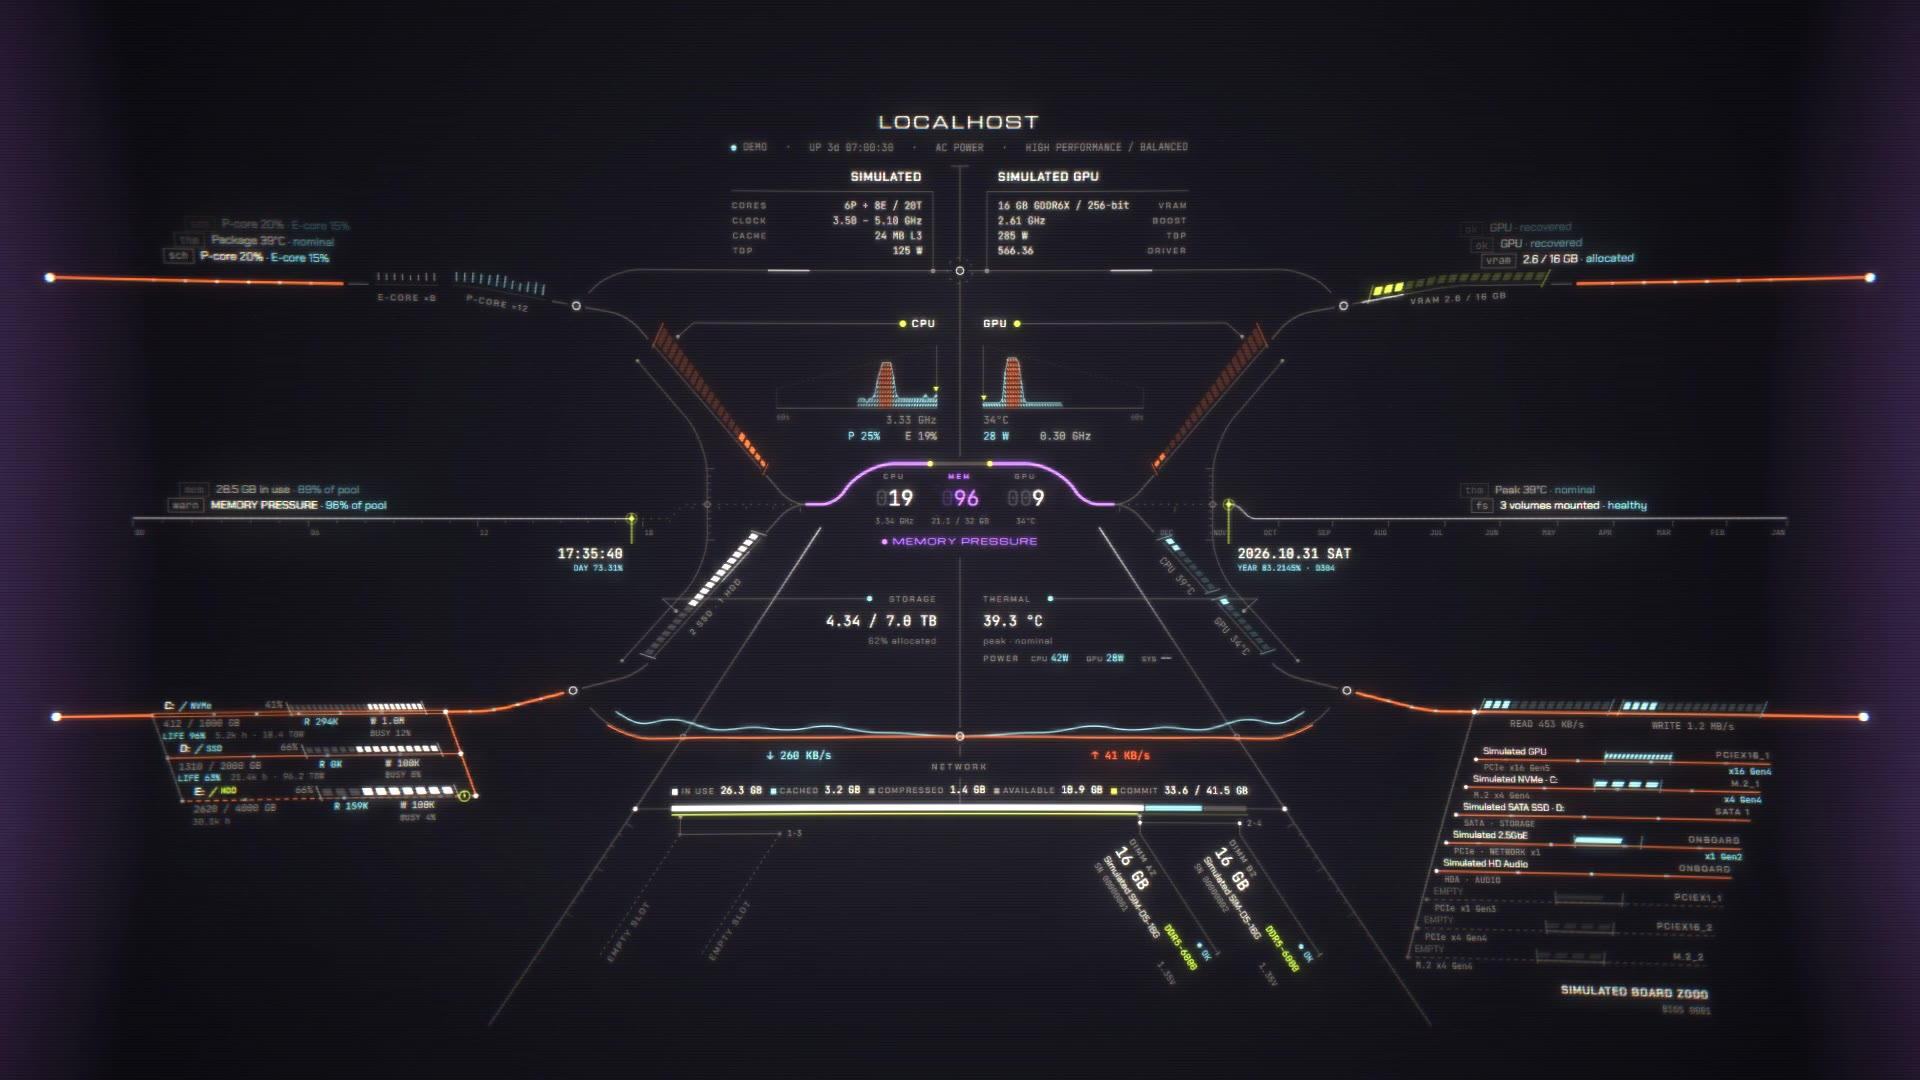
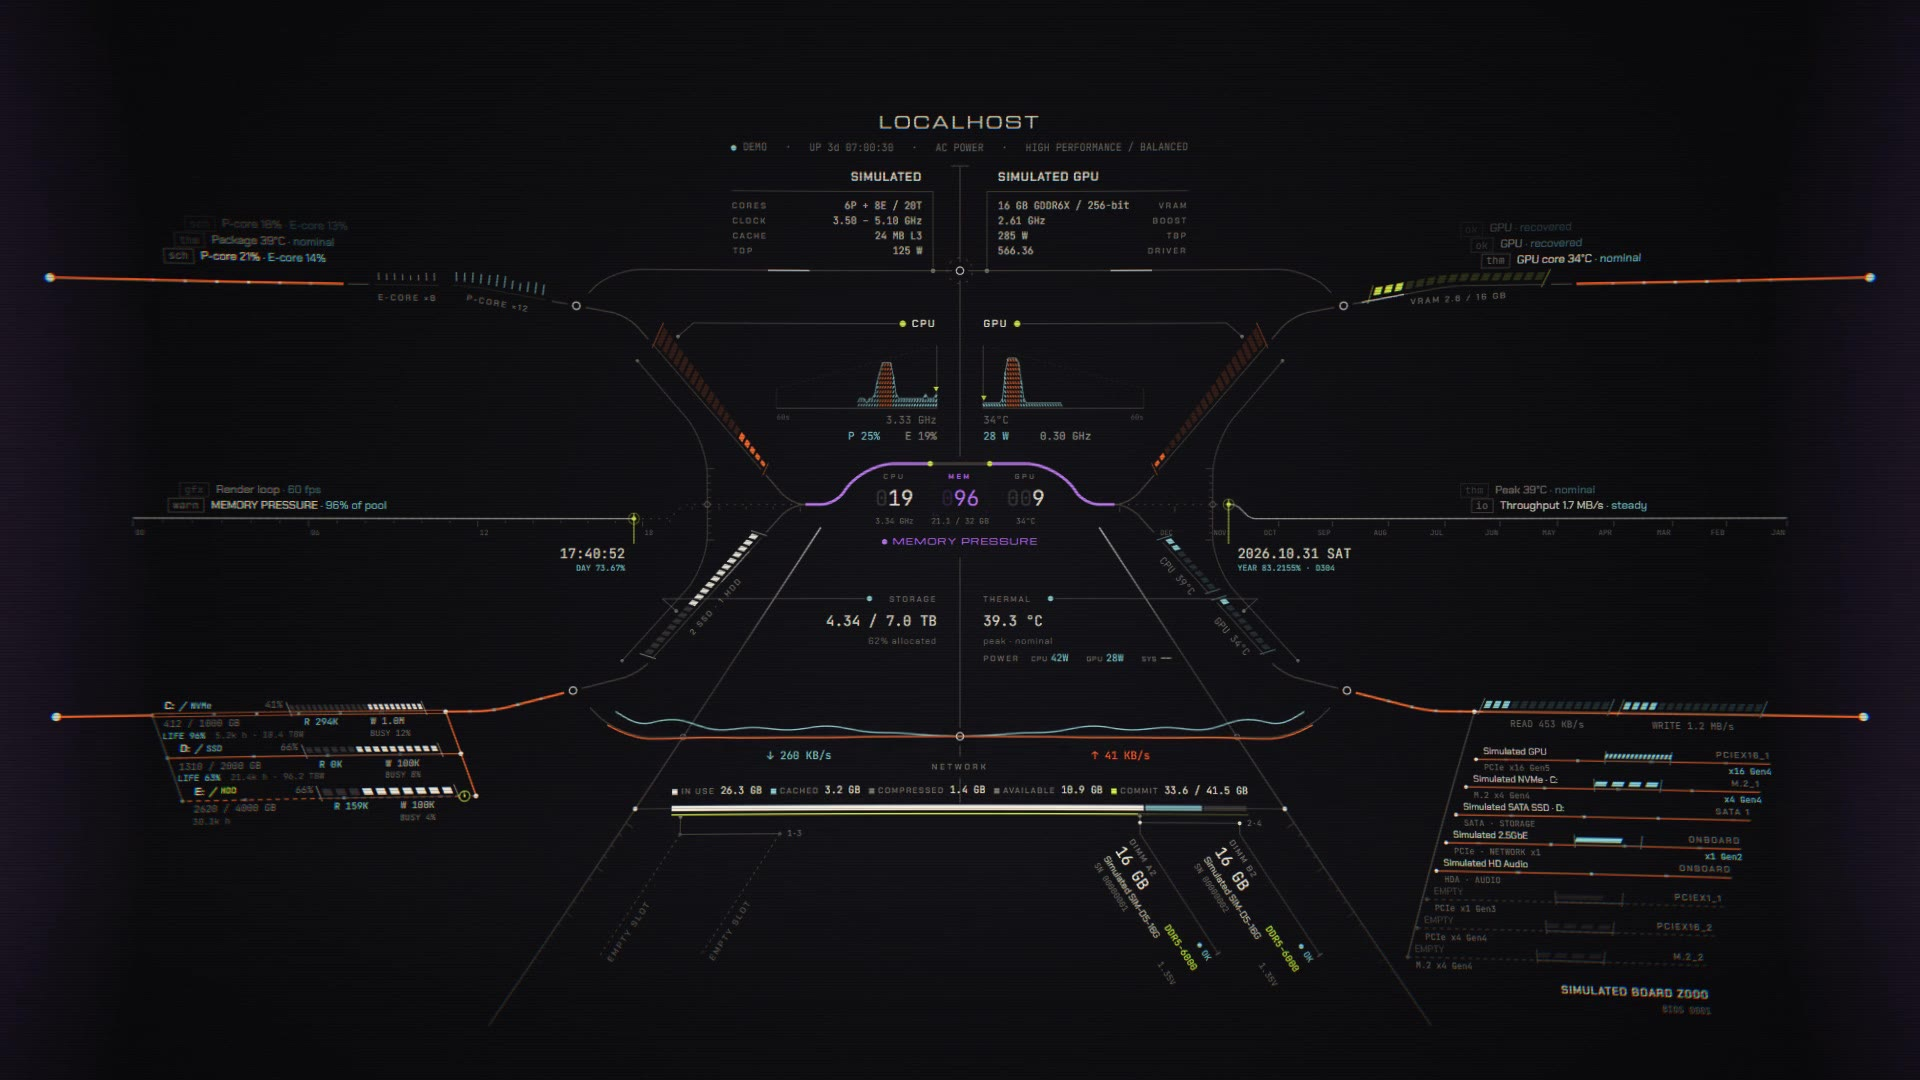
feat: turn glow off by default and guard zero-size canvas

diff --git a/hud/index.html b/hud/index.html
@@ -1535,7 +1535,7 @@ function cells() {
 // 2D 画布照常绘制，每帧作为纹理交给 WebGL2 做一次全屏后处理；不支持 WebGL2 或 ?fx=0 时直接显示 2D 画布。
 // 强度参数：?glow= ?scan= ?curve=（0 关闭，1 为默认强度的上限附近），WE 用户属性同名。
 function fxNum(k, d) { const v = params.get(k); return v == null ? d : +v; }
-const FX = { glow: fxNum('glow', .7), scan: fxNum('scan', .4), curve: fxNum('curve', .5) };
+const FX = { glow: fxNum('glow', 0), scan: fxNum('scan', .4), curve: fxNum('curve', .5) };
 function createFx() {
   const c = document.createElement('canvas');
   const gl = c.getContext('webgl2', { alpha: false, antialias: false, depth: false, stencil: false });
@@ -1738,7 +1738,7 @@ const sfx = (() => {
 // 设置保存在 localStorage；网址参数与 Wallpaper Engine 属性优先级更高。右上角按钮或 P 键打开，Esc 关闭。
 const SETTINGS_KEY = 'hud-settings-v1';
 // 默认限 60 FPS：高分屏上满刷新率重绘 + 后处理开销很大，60 帧观感差别不大
-const DEFAULTS = { theme: 'ember', fx: true, curve: .5, glow: .7, scan: .4, sfx: .35, hum: true, fps: 60 };
+const DEFAULTS = { theme: 'ember', fx: true, curve: .5, glow: 0, scan: .4, sfx: .35, hum: true, fps: 60 };
 const cfg = { ...DEFAULTS };
 try { Object.assign(cfg, JSON.parse(localStorage.getItem(SETTINGS_KEY) || '{}')); } catch {}
 for (const k of ['curve', 'glow', 'scan', 'sfx', 'fps']) if (params.get(k) != null) cfg[k] = +params.get(k);
@@ -2072,7 +2072,8 @@ function update(dt, now) {
 
 function draw(t, now) {
   ctx.setTransform(1, 0, 0, 1, 0, 0);
-  ctx.drawImage(bgLayer, 0, 0);
+  // 窗口尺寸为 0 时（最小化、隐藏）背景层也是 0 尺寸，drawImage 会抛错
+  if (bgLayer.width && bgLayer.height) ctx.drawImage(bgLayer, 0, 0);
   ctx.setTransform(dpr * s, 0, 0, dpr * s, dpr * ox, dpr * oy);
   ctx.textBaseline = 'middle';
   ctx.lineCap = 'butt'; ctx.lineJoin = 'round';
